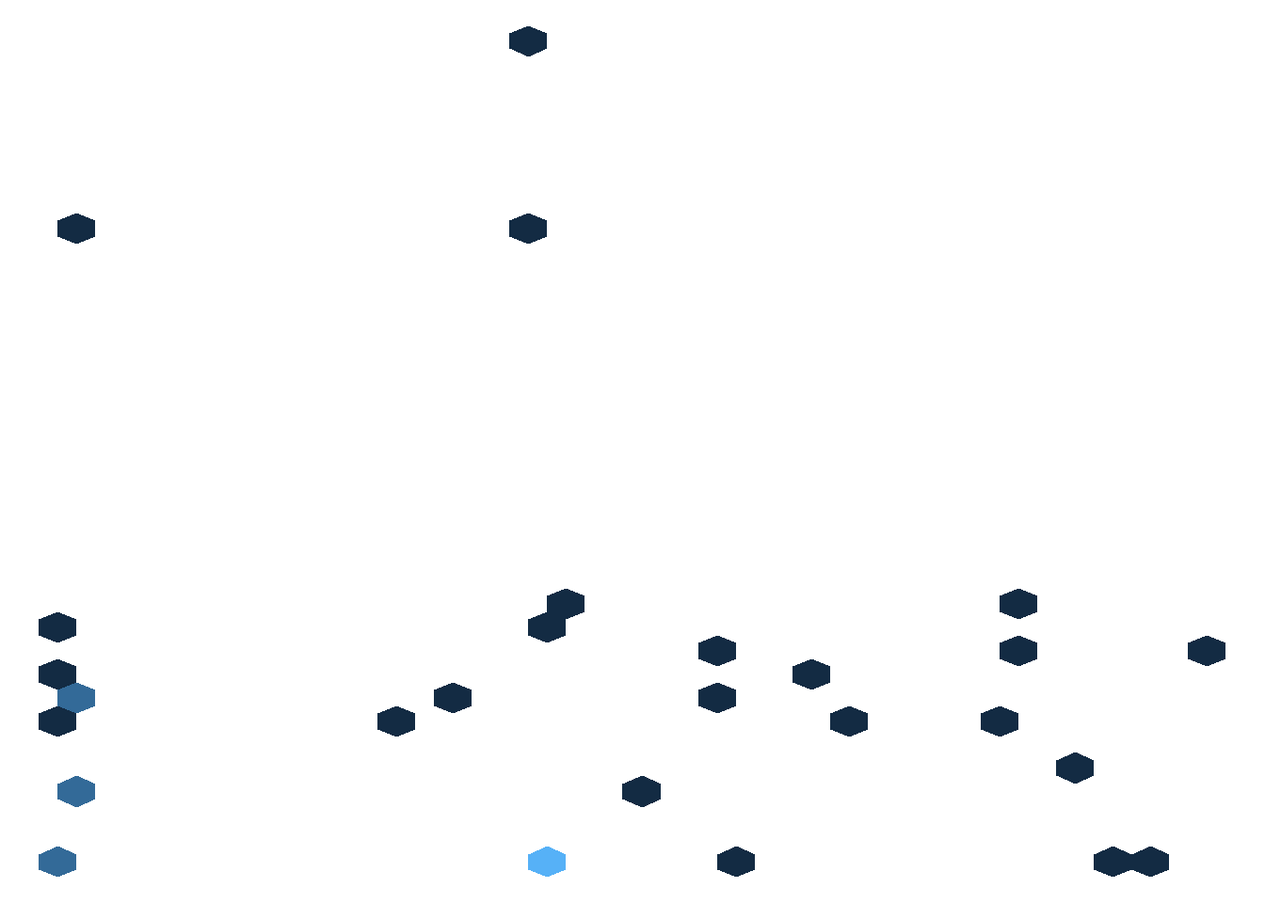
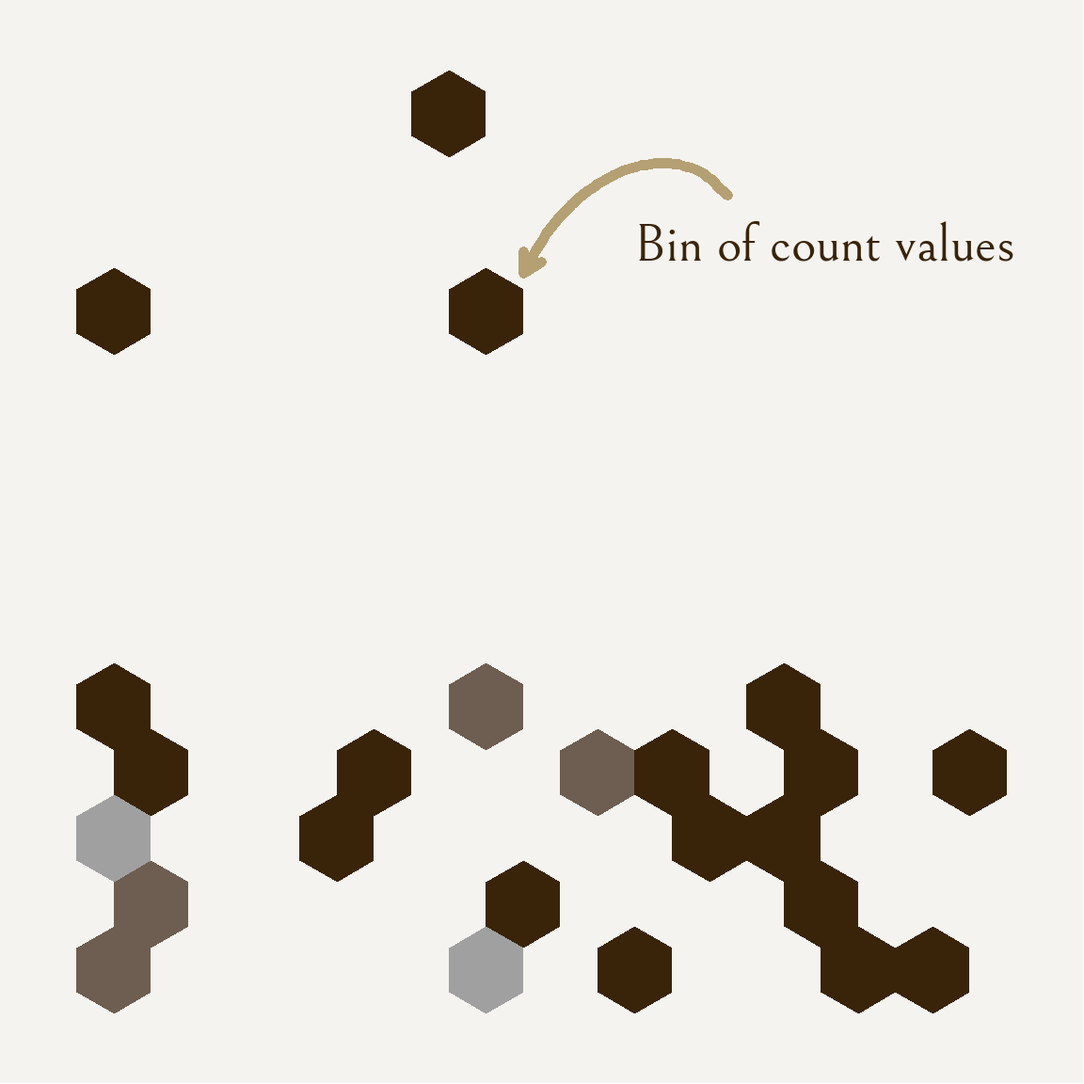
updating visual aesthetics of all three visualizations

diff --git a/code/advanced_visualization_code.html b/code/advanced_visualization_code.html
@@ -120,45 +120,68 @@ pre > code.sourceCode > span > a:first-child::before { text-decoration: underlin
 <span id="cb1-2"><a href="#cb1-2" aria-hidden="true" tabindex="-1"></a><span class="fu">library</span>(here) <span class="co"># file organization</span></span>
 <span id="cb1-3"><a href="#cb1-3" aria-hidden="true" tabindex="-1"></a><span class="fu">library</span>(janitor) <span class="co"># cleaning data frames</span></span>
 <span id="cb1-4"><a href="#cb1-4" aria-hidden="true" tabindex="-1"></a><span class="fu">library</span>(readxl) <span class="co"># reading excel files</span></span>
-<span id="cb1-5"><a href="#cb1-5" aria-hidden="true" tabindex="-1"></a><span class="fu">library</span>(hexbin)</span>
-<span id="cb1-6"><a href="#cb1-6" aria-hidden="true" tabindex="-1"></a><span class="fu">library</span>(ggpattern)</span>
-<span id="cb1-7"><a href="#cb1-7" aria-hidden="true" tabindex="-1"></a><span class="fu">library</span>(ggthemes)</span>
-<span id="cb1-8"><a href="#cb1-8" aria-hidden="true" tabindex="-1"></a><span class="fu">library</span>(magick)</span>
-<span id="cb1-9"><a href="#cb1-9" aria-hidden="true" tabindex="-1"></a><span class="fu">library</span>(patchwork)</span>
-<span id="cb1-10"><a href="#cb1-10" aria-hidden="true" tabindex="-1"></a><span class="fu">library</span>(showtext)</span>
-<span id="cb1-11"><a href="#cb1-11" aria-hidden="true" tabindex="-1"></a><span class="fu">library</span>(sysfonts)</span>
-<span id="cb1-12"><a href="#cb1-12" aria-hidden="true" tabindex="-1"></a><span class="fu">library</span>(GGally)</span>
-<span id="cb1-13"><a href="#cb1-13" aria-hidden="true" tabindex="-1"></a><span class="fu">font_add_google</span>(<span class="at">name =</span> <span class="st">"Bellefair"</span>, <span class="co"># Name of the font on the Google Fonts site</span></span>
-<span id="cb1-14"><a href="#cb1-14" aria-hidden="true" tabindex="-1"></a>                <span class="at">family =</span> <span class="st">"belle"</span>) <span class="co"># Name to call the font</span></span>
-<span id="cb1-15"><a href="#cb1-15" aria-hidden="true" tabindex="-1"></a><span class="fu">showtext_auto</span>() <span class="co"># automatically use showtext to render text</span></span>
-<span id="cb1-16"><a href="#cb1-16" aria-hidden="true" tabindex="-1"></a></span>
-<span id="cb1-17"><a href="#cb1-17" aria-hidden="true" tabindex="-1"></a>personal_data <span class="ot">&lt;-</span> <span class="fu">read_csv</span>(<span class="fu">here</span>(<span class="st">"data"</span>,</span>
-<span id="cb1-18"><a href="#cb1-18" aria-hidden="true" tabindex="-1"></a>                               <span class="st">"personal_data_03072026.csv"</span>))</span>
-<span id="cb1-19"><a href="#cb1-19" aria-hidden="true" tabindex="-1"></a></span>
-<span id="cb1-20"><a href="#cb1-20" aria-hidden="true" tabindex="-1"></a>personal_data_clean <span class="ot">&lt;-</span> personal_data <span class="sc">|&gt;</span> <span class="co"># save personal data as object</span></span>
-<span id="cb1-21"><a href="#cb1-21" aria-hidden="true" tabindex="-1"></a>  <span class="fu">clean_names</span>() <span class="sc">|&gt;</span> <span class="co"># clean column names</span></span>
-<span id="cb1-22"><a href="#cb1-22" aria-hidden="true" tabindex="-1"></a>  <span class="fu">mutate</span>(<span class="at">date_mutate =</span> <span class="fu">as.Date.character</span>(date, <span class="at">format =</span> <span class="st">"%m/%d/%Y"</span>), <span class="co"># mutate date column into </span></span>
-<span id="cb1-23"><a href="#cb1-23" aria-hidden="true" tabindex="-1"></a>         <span class="at">game_min =</span> time_with_mobile_game_active_min,</span>
-<span id="cb1-24"><a href="#cb1-24" aria-hidden="true" tabindex="-1"></a>         <span class="at">class_hrs =</span> time_in_class_lecture_hrs,</span>
-<span id="cb1-25"><a href="#cb1-25" aria-hidden="true" tabindex="-1"></a>         <span class="at">study_hrs =</span> time_spent_in_study_spaces_hrs,</span>
-<span id="cb1-26"><a href="#cb1-26" aria-hidden="true" tabindex="-1"></a>         <span class="at">friends_hrs =</span> time_spent_at_friends_hrs,</span>
-<span id="cb1-27"><a href="#cb1-27" aria-hidden="true" tabindex="-1"></a>         <span class="at">assignments =</span> number_of_assignments_due) <span class="sc">|&gt;</span></span>
-<span id="cb1-28"><a href="#cb1-28" aria-hidden="true" tabindex="-1"></a>  <span class="fu">select</span>(date_mutate, game_min, class, class_hrs, study_hrs, friends_hrs, assignments)</span></code></pre></div><button title="Copy to Clipboard" class="code-copy-button"><i class="bi"></i></button></div>
+<span id="cb1-5"><a href="#cb1-5" aria-hidden="true" tabindex="-1"></a><span class="fu">library</span>(ggpattern) <span class="co"># geom pattern customization</span></span>
+<span id="cb1-6"><a href="#cb1-6" aria-hidden="true" tabindex="-1"></a><span class="fu">library</span>(ggthemes) <span class="co"># extra plot themes</span></span>
+<span id="cb1-7"><a href="#cb1-7" aria-hidden="true" tabindex="-1"></a><span class="fu">library</span>(showtext) <span class="co"># to show custom text on plot</span></span>
+<span id="cb1-8"><a href="#cb1-8" aria-hidden="true" tabindex="-1"></a><span class="fu">library</span>(sysfonts) <span class="co"># to read in custom google font</span></span>
+<span id="cb1-9"><a href="#cb1-9" aria-hidden="true" tabindex="-1"></a><span class="fu">library</span>(GGally) <span class="co"># for more complex plots (correlation heatmap)</span></span>
+<span id="cb1-10"><a href="#cb1-10" aria-hidden="true" tabindex="-1"></a><span class="fu">library</span>(labelled) <span class="co"># for customizaing variable labels</span></span>
+<span id="cb1-11"><a href="#cb1-11" aria-hidden="true" tabindex="-1"></a><span class="fu">font_add_google</span>(<span class="at">name =</span> <span class="st">"Bellefair"</span>, <span class="co"># Name of the font on the Google Fonts site</span></span>
+<span id="cb1-12"><a href="#cb1-12" aria-hidden="true" tabindex="-1"></a>                <span class="at">family =</span> <span class="st">"belle"</span>) <span class="co"># Name to call the font</span></span>
+<span id="cb1-13"><a href="#cb1-13" aria-hidden="true" tabindex="-1"></a><span class="fu">showtext_auto</span>() <span class="co"># automatically use showtext to render text</span></span>
+<span id="cb1-14"><a href="#cb1-14" aria-hidden="true" tabindex="-1"></a></span>
+<span id="cb1-15"><a href="#cb1-15" aria-hidden="true" tabindex="-1"></a>personal_data <span class="ot">&lt;-</span> <span class="fu">read_csv</span>(<span class="fu">here</span>(<span class="st">"data"</span>,</span>
+<span id="cb1-16"><a href="#cb1-16" aria-hidden="true" tabindex="-1"></a>                               <span class="st">"personal_data_03072026.csv"</span>)) <span class="co"># save personal data as object</span></span>
+<span id="cb1-17"><a href="#cb1-17" aria-hidden="true" tabindex="-1"></a>personal_data_clean <span class="ot">&lt;-</span> personal_data <span class="sc">|&gt;</span> <span class="co"># create clean data frame of personal data</span></span>
+<span id="cb1-18"><a href="#cb1-18" aria-hidden="true" tabindex="-1"></a>  <span class="fu">clean_names</span>() <span class="sc">|&gt;</span> <span class="co"># clean column names to lowercase and underscores</span></span>
+<span id="cb1-19"><a href="#cb1-19" aria-hidden="true" tabindex="-1"></a>  <span class="fu">mutate</span>(<span class="at">Date =</span> <span class="fu">as.Date.character</span>(date, <span class="at">format =</span> <span class="st">"%m/%d/%Y"</span>), <span class="co"># mutate date column into readable dates </span></span>
+<span id="cb1-20"><a href="#cb1-20" aria-hidden="true" tabindex="-1"></a>         <span class="at">Game =</span> time_with_mobile_game_active_min, <span class="co"># creating columns with updated names, new name = old name</span></span>
+<span id="cb1-21"><a href="#cb1-21" aria-hidden="true" tabindex="-1"></a>         <span class="at">Class =</span> time_in_class_lecture_hrs, <span class="co">#  new name = old name</span></span>
+<span id="cb1-22"><a href="#cb1-22" aria-hidden="true" tabindex="-1"></a>         <span class="at">Study =</span> time_spent_in_study_spaces_hrs, <span class="co">#  new name = old name</span></span>
+<span id="cb1-23"><a href="#cb1-23" aria-hidden="true" tabindex="-1"></a>         <span class="at">Friends =</span> time_spent_at_friends_hrs, <span class="co">#  new name = old name</span></span>
+<span id="cb1-24"><a href="#cb1-24" aria-hidden="true" tabindex="-1"></a>         <span class="at">Assignments =</span> number_of_assignments_due) <span class="sc">|&gt;</span> <span class="co">#  new name = old name</span></span>
+<span id="cb1-25"><a href="#cb1-25" aria-hidden="true" tabindex="-1"></a>  <span class="fu">select</span>(Date, Game, class, Class, Study, Friends, Assignments) <span class="co"># select columns of interest</span></span></code></pre></div><button title="Copy to Clipboard" class="code-copy-button"><i class="bi"></i></button></div>
 </div>
 </section>
 <section id="visualization-1." class="level1">
 <h1>Visualization 1.</h1>
 <div class="cell">
-<div class="code-copy-outer-scaffold"><div class="sourceCode cell-code" id="cb2"><pre class="sourceCode r code-with-copy"><code class="sourceCode r"><span id="cb2-1"><a href="#cb2-1" aria-hidden="true" tabindex="-1"></a><span class="fu">ggplot</span>(<span class="at">data =</span> personal_data_clean,</span>
-<span id="cb2-2"><a href="#cb2-2" aria-hidden="true" tabindex="-1"></a>       <span class="fu">aes</span>(<span class="at">x =</span> class_hrs,</span>
-<span id="cb2-3"><a href="#cb2-3" aria-hidden="true" tabindex="-1"></a>           <span class="at">y =</span> game_min)) <span class="sc">+</span></span>
-<span id="cb2-4"><a href="#cb2-4" aria-hidden="true" tabindex="-1"></a>  <span class="fu">geom_hex</span>() <span class="sc">+</span></span>
-<span id="cb2-5"><a href="#cb2-5" aria-hidden="true" tabindex="-1"></a>  <span class="fu">theme_void</span>() <span class="sc">+</span></span>
-<span id="cb2-6"><a href="#cb2-6" aria-hidden="true" tabindex="-1"></a>  <span class="fu">theme</span>(<span class="at">legend.position =</span> <span class="st">"none"</span>)</span></code></pre></div><button title="Copy to Clipboard" class="code-copy-button"><i class="bi"></i></button></div>
+<div class="code-copy-outer-scaffold"><div class="sourceCode cell-code" id="cb2"><pre class="sourceCode r code-with-copy"><code class="sourceCode r"><span id="cb2-1"><a href="#cb2-1" aria-hidden="true" tabindex="-1"></a><span class="fu">ggplot</span>(<span class="at">data =</span> personal_data_clean, <span class="co"># create base ggplot layer with clean df</span></span>
+<span id="cb2-2"><a href="#cb2-2" aria-hidden="true" tabindex="-1"></a>       <span class="fu">aes</span>(<span class="at">x =</span> Class, <span class="co"># set x-axis</span></span>
+<span id="cb2-3"><a href="#cb2-3" aria-hidden="true" tabindex="-1"></a>           <span class="at">y =</span> Game)) <span class="sc">+</span> <span class="co"># set y-axis</span></span>
+<span id="cb2-4"><a href="#cb2-4" aria-hidden="true" tabindex="-1"></a>  <span class="fu">geom_hex</span>(<span class="at">bins =</span> <span class="dv">11</span>) <span class="sc">+</span> <span class="co"># customize bin number  (to smallest # that won't cut off geom shape near border)</span></span>
+<span id="cb2-5"><a href="#cb2-5" aria-hidden="true" tabindex="-1"></a>  <span class="fu">scale_fill_continuous</span>(<span class="at">type =</span> <span class="st">"gradient"</span>, <span class="co"># customize color of hexbins</span></span>
+<span id="cb2-6"><a href="#cb2-6" aria-hidden="true" tabindex="-1"></a>                        <span class="at">low =</span> <span class="st">"#39240A"</span>, <span class="co"># set low count occurence color</span></span>
+<span id="cb2-7"><a href="#cb2-7" aria-hidden="true" tabindex="-1"></a>                        <span class="at">high =</span> <span class="st">"#A0A0A0"</span>) <span class="sc">+</span> <span class="co"># set higher count occurence color</span></span>
+<span id="cb2-8"><a href="#cb2-8" aria-hidden="true" tabindex="-1"></a>  <span class="fu">theme_void</span>() <span class="sc">+</span> <span class="co"># set theme to remove axis and labels</span></span>
+<span id="cb2-9"><a href="#cb2-9" aria-hidden="true" tabindex="-1"></a>  <span class="fu">theme</span>(<span class="at">legend.position =</span> <span class="st">"none"</span>) <span class="sc">+</span> <span class="co"># remove legend</span></span>
+<span id="cb2-10"><a href="#cb2-10" aria-hidden="true" tabindex="-1"></a>  <span class="fu">theme</span>(<span class="at">plot.margin =</span> <span class="fu">margin</span>(<span class="at">t =</span> <span class="dv">1</span>, <span class="co"># create 1 cm margin around all sides</span></span>
+<span id="cb2-11"><a href="#cb2-11" aria-hidden="true" tabindex="-1"></a>                             <span class="at">r =</span> <span class="dv">1</span>,</span>
+<span id="cb2-12"><a href="#cb2-12" aria-hidden="true" tabindex="-1"></a>                             <span class="at">l =</span> <span class="dv">1</span>,</span>
+<span id="cb2-13"><a href="#cb2-13" aria-hidden="true" tabindex="-1"></a>                             <span class="at">b =</span> <span class="dv">1</span>,</span>
+<span id="cb2-14"><a href="#cb2-14" aria-hidden="true" tabindex="-1"></a>                             <span class="at">unit =</span> <span class="st">"cm"</span>),</span>
+<span id="cb2-15"><a href="#cb2-15" aria-hidden="true" tabindex="-1"></a>         <span class="at">plot.background =</span> <span class="fu">element_rect</span>(<span class="at">fill =</span> <span class="st">"#F5F3EF"</span>)) <span class="sc">+</span> <span class="co"># set background color</span></span>
+<span id="cb2-16"><a href="#cb2-16" aria-hidden="true" tabindex="-1"></a>  <span class="fu">geom_curve</span>(<span class="at">x =</span> <span class="fl">2.25</span>,</span>
+<span id="cb2-17"><a href="#cb2-17" aria-hidden="true" tabindex="-1"></a>             <span class="at">y =</span> <span class="dv">50</span>,</span>
+<span id="cb2-18"><a href="#cb2-18" aria-hidden="true" tabindex="-1"></a>             <span class="at">xend =</span> <span class="fl">1.5</span>,</span>
+<span id="cb2-19"><a href="#cb2-19" aria-hidden="true" tabindex="-1"></a>             <span class="at">yend =</span> <span class="dv">45</span>,</span>
+<span id="cb2-20"><a href="#cb2-20" aria-hidden="true" tabindex="-1"></a>             <span class="at">curvature =</span> <span class="fl">0.6</span>,</span>
+<span id="cb2-21"><a href="#cb2-21" aria-hidden="true" tabindex="-1"></a>             <span class="at">angle =</span> <span class="dv">70</span>,</span>
+<span id="cb2-22"><a href="#cb2-22" aria-hidden="true" tabindex="-1"></a>             <span class="at">linewidth =</span> <span class="dv">2</span>,</span>
+<span id="cb2-23"><a href="#cb2-23" aria-hidden="true" tabindex="-1"></a>             <span class="at">arrow =</span> <span class="fu">arrow</span>(<span class="at">length =</span> <span class="fu">unit</span>(<span class="fl">0.3</span>, <span class="st">"cm"</span>)),</span>
+<span id="cb2-24"><a href="#cb2-24" aria-hidden="true" tabindex="-1"></a>             <span class="at">lineend =</span> <span class="st">"round"</span>,</span>
+<span id="cb2-25"><a href="#cb2-25" aria-hidden="true" tabindex="-1"></a>             <span class="at">col =</span> <span class="st">"#B4A073"</span>) <span class="sc">+</span></span>
+<span id="cb2-26"><a href="#cb2-26" aria-hidden="true" tabindex="-1"></a>  <span class="fu">annotate</span>(<span class="st">"text"</span>,</span>
+<span id="cb2-27"><a href="#cb2-27" aria-hidden="true" tabindex="-1"></a>           <span class="at">x =</span> <span class="fl">2.6</span>,</span>
+<span id="cb2-28"><a href="#cb2-28" aria-hidden="true" tabindex="-1"></a>           <span class="at">y =</span> <span class="dv">47</span>,</span>
+<span id="cb2-29"><a href="#cb2-29" aria-hidden="true" tabindex="-1"></a>           <span class="at">label =</span> <span class="st">"Bin of count values"</span>,</span>
+<span id="cb2-30"><a href="#cb2-30" aria-hidden="true" tabindex="-1"></a>           <span class="at">color =</span> <span class="st">"#39240A"</span>,</span>
+<span id="cb2-31"><a href="#cb2-31" aria-hidden="true" tabindex="-1"></a>           <span class="at">size =</span> <span class="dv">15</span>,</span>
+<span id="cb2-32"><a href="#cb2-32" aria-hidden="true" tabindex="-1"></a>           <span class="at">family =</span> <span class="st">"belle"</span>)</span></code></pre></div><button title="Copy to Clipboard" class="code-copy-button"><i class="bi"></i></button></div>
 <div class="cell-output-display">
 <div>
 <figure class="figure">
-<p><img src="advanced_visualization_code_files/figure-html/hexplot%20class+game-1.png" class="img-fluid figure-img" width="672"></p>
+<p><img src="advanced_visualization_code_files/figure-html/hexplot%20class+game-1.png" class="img-fluid figure-img" width="576"></p>
 </figure>
 </div>
 </div>
@@ -167,15 +190,19 @@ pre > code.sourceCode > span > a:first-child::before { text-decoration: underlin
 <section id="visualization-2." class="level1">
 <h1>Visualization 2.</h1>
 <div class="cell">
-<div class="code-copy-outer-scaffold"><div class="sourceCode cell-code" id="cb3"><pre class="sourceCode r code-with-copy"><code class="sourceCode r"><span id="cb3-1"><a href="#cb3-1" aria-hidden="true" tabindex="-1"></a><span class="fu">ggcorr</span>(<span class="at">data =</span> personal_data_clean,</span>
-<span id="cb3-2"><a href="#cb3-2" aria-hidden="true" tabindex="-1"></a>       <span class="at">method =</span> <span class="fu">c</span>(<span class="st">"pairwise"</span>, <span class="st">"spearman"</span>),</span>
-<span id="cb3-3"><a href="#cb3-3" aria-hidden="true" tabindex="-1"></a>       <span class="at">low =</span> <span class="st">"#8500E9"</span>,</span>
-<span id="cb3-4"><a href="#cb3-4" aria-hidden="true" tabindex="-1"></a>       <span class="at">high =</span> <span class="st">"#56E900"</span>,</span>
-<span id="cb3-5"><a href="#cb3-5" aria-hidden="true" tabindex="-1"></a>       <span class="at">legend.position =</span> <span class="st">"left"</span>)</span></code></pre></div><button title="Copy to Clipboard" class="code-copy-button"><i class="bi"></i></button></div>
+<div class="code-copy-outer-scaffold"><div class="sourceCode cell-code" id="cb3"><pre class="sourceCode r code-with-copy"><code class="sourceCode r"><span id="cb3-1"><a href="#cb3-1" aria-hidden="true" tabindex="-1"></a><span class="fu">ggcorr</span>(<span class="at">data =</span> personal_data_clean, <span class="co"># create correlation heatmap with clean df</span></span>
+<span id="cb3-2"><a href="#cb3-2" aria-hidden="true" tabindex="-1"></a>       <span class="at">method =</span> <span class="fu">c</span>(<span class="st">"pairwise"</span>, <span class="st">"spearman"</span>), <span class="co"># choose method of correlation on data</span></span>
+<span id="cb3-3"><a href="#cb3-3" aria-hidden="true" tabindex="-1"></a>       <span class="at">low =</span> <span class="st">"#8500E9"</span>, <span class="co"># set negative correlation color</span></span>
+<span id="cb3-4"><a href="#cb3-4" aria-hidden="true" tabindex="-1"></a>       <span class="at">mid =</span> <span class="st">"#C0CDFF"</span>, <span class="co"># set close to 0 correlation color</span></span>
+<span id="cb3-5"><a href="#cb3-5" aria-hidden="true" tabindex="-1"></a>       <span class="at">high =</span> <span class="st">"#56E900"</span>) <span class="sc">+</span> <span class="co"># set positive correlation color</span></span>
+<span id="cb3-6"><a href="#cb3-6" aria-hidden="true" tabindex="-1"></a>   <span class="fu">theme_minimal</span>(<span class="at">base_family =</span> <span class="st">"belle"</span>) <span class="sc">+</span> <span class="co"># set theme to minimal and base text font</span></span>
+<span id="cb3-7"><a href="#cb3-7" aria-hidden="true" tabindex="-1"></a>  <span class="fu">theme</span>(<span class="at">text =</span> <span class="fu">element_text</span>(<span class="at">size =</span> <span class="dv">30</span>), <span class="co"># set font size</span></span>
+<span id="cb3-8"><a href="#cb3-8" aria-hidden="true" tabindex="-1"></a>        <span class="at">plot.background =</span> <span class="fu">element_rect</span>(<span class="at">fill =</span> <span class="st">"#F5F3EF"</span>), <span class="co"># set background color</span></span>
+<span id="cb3-9"><a href="#cb3-9" aria-hidden="true" tabindex="-1"></a>        <span class="at">legend.position =</span> <span class="st">"top"</span>) <span class="co"># put legend at top</span></span></code></pre></div><button title="Copy to Clipboard" class="code-copy-button"><i class="bi"></i></button></div>
 <div class="cell-output-display">
 <div>
 <figure class="figure">
-<p><img src="advanced_visualization_code_files/figure-html/correlation%20matrix-1.png" class="img-fluid figure-img" width="672"></p>
+<p><img src="advanced_visualization_code_files/figure-html/correlation%20matrix-1.png" class="img-fluid figure-img" width="480"></p>
 </figure>
 </div>
 </div>
@@ -184,39 +211,38 @@ pre > code.sourceCode > span > a:first-child::before { text-decoration: underlin
 <section id="visualization-3." class="level1">
 <h1>Visualization 3.</h1>
 <div class="cell">
-<div class="code-copy-outer-scaffold"><div class="sourceCode cell-code" id="cb4"><pre class="sourceCode r code-with-copy"><code class="sourceCode r"><span id="cb4-1"><a href="#cb4-1" aria-hidden="true" tabindex="-1"></a>coeff <span class="ot">&lt;-</span> <span class="dv">18</span></span>
+<div class="code-copy-outer-scaffold"><div class="sourceCode cell-code" id="cb4"><pre class="sourceCode r code-with-copy"><code class="sourceCode r"><span id="cb4-1"><a href="#cb4-1" aria-hidden="true" tabindex="-1"></a>coeff <span class="ot">&lt;-</span> <span class="dv">18</span> <span class="co"># define coefficient for later use</span></span>
 <span id="cb4-2"><a href="#cb4-2" aria-hidden="true" tabindex="-1"></a></span>
-<span id="cb4-3"><a href="#cb4-3" aria-hidden="true" tabindex="-1"></a><span class="fu">ggplot</span>(<span class="at">data =</span> personal_data_clean,</span>
-<span id="cb4-4"><a href="#cb4-4" aria-hidden="true" tabindex="-1"></a>       <span class="fu">aes</span>(<span class="at">x =</span> date_mutate)) <span class="sc">+</span> </span>
-<span id="cb4-5"><a href="#cb4-5" aria-hidden="true" tabindex="-1"></a>  <span class="fu">geom_line</span>(<span class="fu">aes</span>(<span class="at">y =</span> class_hrs),</span>
-<span id="cb4-6"><a href="#cb4-6" aria-hidden="true" tabindex="-1"></a>            <span class="at">color =</span> <span class="st">"#A0A0A0"</span>,</span>
-<span id="cb4-7"><a href="#cb4-7" aria-hidden="true" tabindex="-1"></a>            <span class="at">linewidth =</span> <span class="dv">1</span>) <span class="sc">+</span></span>
-<span id="cb4-8"><a href="#cb4-8" aria-hidden="true" tabindex="-1"></a>  <span class="fu">geom_line</span>(<span class="fu">aes</span>(<span class="at">y =</span> game_min<span class="sc">/</span>coeff),</span>
-<span id="cb4-9"><a href="#cb4-9" aria-hidden="true" tabindex="-1"></a>            <span class="at">color =</span> <span class="st">"#0F0F0F"</span>,</span>
-<span id="cb4-10"><a href="#cb4-10" aria-hidden="true" tabindex="-1"></a>            <span class="at">linewidth =</span> <span class="dv">1</span>) <span class="sc">+</span></span>
-<span id="cb4-11"><a href="#cb4-11" aria-hidden="true" tabindex="-1"></a>  <span class="fu">scale_y_continuous</span>(<span class="at">name =</span> <span class="st">"Time in lecture (hrs)"</span>,</span>
-<span id="cb4-12"><a href="#cb4-12" aria-hidden="true" tabindex="-1"></a>                     <span class="at">sec.axis =</span> <span class="fu">sec_axis</span>(<span class="sc">~</span> . <span class="sc">*</span> coeff, </span>
+<span id="cb4-3"><a href="#cb4-3" aria-hidden="true" tabindex="-1"></a><span class="fu">ggplot</span>(<span class="at">data =</span> personal_data_clean, <span class="co"># create base ggplot layer with clean df</span></span>
+<span id="cb4-4"><a href="#cb4-4" aria-hidden="true" tabindex="-1"></a>       <span class="fu">aes</span>(<span class="at">x =</span> Date)) <span class="sc">+</span> <span class="co"># set x-axis as date to create time series</span></span>
+<span id="cb4-5"><a href="#cb4-5" aria-hidden="true" tabindex="-1"></a>  <span class="fu">geom_line</span>(<span class="fu">aes</span>(<span class="at">y =</span> Class), <span class="co"># create line for time in class</span></span>
+<span id="cb4-6"><a href="#cb4-6" aria-hidden="true" tabindex="-1"></a>            <span class="at">color =</span> <span class="st">"#A0A0A0"</span>, <span class="co"># set color</span></span>
+<span id="cb4-7"><a href="#cb4-7" aria-hidden="true" tabindex="-1"></a>            <span class="at">linewidth =</span> <span class="dv">1</span>) <span class="sc">+</span> <span class="co"># set width</span></span>
+<span id="cb4-8"><a href="#cb4-8" aria-hidden="true" tabindex="-1"></a>  <span class="fu">geom_line</span>(<span class="fu">aes</span>(<span class="at">y =</span> Game<span class="sc">/</span>coeff), <span class="co"># create line for time spent on game and divide values to scale it to existing y-axis values of hours</span></span>
+<span id="cb4-9"><a href="#cb4-9" aria-hidden="true" tabindex="-1"></a>            <span class="at">color =</span> <span class="st">"#0F0F0F"</span>, <span class="co"># set color</span></span>
+<span id="cb4-10"><a href="#cb4-10" aria-hidden="true" tabindex="-1"></a>            <span class="at">linewidth =</span> <span class="dv">1</span>) <span class="sc">+</span> <span class="co"># set width</span></span>
+<span id="cb4-11"><a href="#cb4-11" aria-hidden="true" tabindex="-1"></a>  <span class="fu">scale_y_continuous</span>(<span class="at">name =</span> <span class="st">"Time in lecture (hrs)"</span>, <span class="co"># scale first y-axis to hours and name it and name it accordingly</span></span>
+<span id="cb4-12"><a href="#cb4-12" aria-hidden="true" tabindex="-1"></a>                     <span class="at">sec.axis =</span> <span class="fu">sec_axis</span>(<span class="sc">~</span> . <span class="sc">*</span> coeff, <span class="co"># scale second y-axis to minutes and name it accordingly</span></span>
 <span id="cb4-13"><a href="#cb4-13" aria-hidden="true" tabindex="-1"></a>                                         <span class="at">name =</span> <span class="st">"Time tracked on game (min)"</span>)) <span class="sc">+</span></span>
-<span id="cb4-14"><a href="#cb4-14" aria-hidden="true" tabindex="-1"></a>  <span class="fu">labs</span>(<span class="at">x =</span> <span class="st">"Date"</span>) <span class="sc">+</span></span>
-<span id="cb4-15"><a href="#cb4-15" aria-hidden="true" tabindex="-1"></a>  <span class="fu">theme_classic</span>() <span class="sc">+</span></span>
-<span id="cb4-16"><a href="#cb4-16" aria-hidden="true" tabindex="-1"></a>   <span class="fu">theme</span>(<span class="at">text =</span> <span class="fu">element_text</span>(<span class="at">family =</span> <span class="st">"belle"</span>),</span>
-<span id="cb4-17"><a href="#cb4-17" aria-hidden="true" tabindex="-1"></a>         <span class="at">plot.background =</span> <span class="fu">element_rect</span>(<span class="at">fill =</span> <span class="st">"#F5F3EF"</span>),</span>
-<span id="cb4-18"><a href="#cb4-18" aria-hidden="true" tabindex="-1"></a>         <span class="at">panel.background =</span> <span class="fu">element_rect</span>(<span class="at">fill =</span> <span class="st">"#F5F3EF"</span>),</span>
-<span id="cb4-19"><a href="#cb4-19" aria-hidden="true" tabindex="-1"></a>         <span class="at">panel.border =</span> <span class="fu">element_rect</span>(<span class="at">fill =</span> <span class="cn">NA</span>, </span>
-<span id="cb4-20"><a href="#cb4-20" aria-hidden="true" tabindex="-1"></a>                                     <span class="at">color =</span> <span class="st">"#B4A073"</span>, </span>
-<span id="cb4-21"><a href="#cb4-21" aria-hidden="true" tabindex="-1"></a>                                     <span class="at">linewidth =</span> <span class="dv">5</span>),</span>
-<span id="cb4-22"><a href="#cb4-22" aria-hidden="true" tabindex="-1"></a>         <span class="at">axis.title.x =</span> <span class="fu">element_text</span>(<span class="at">size =</span> <span class="dv">40</span>,</span>
-<span id="cb4-23"><a href="#cb4-23" aria-hidden="true" tabindex="-1"></a>                                   <span class="at">color =</span> <span class="st">"#39240A"</span>),</span>
-<span id="cb4-24"><a href="#cb4-24" aria-hidden="true" tabindex="-1"></a>       <span class="at">axis.title.y.left =</span> <span class="fu">element_text</span>(<span class="at">size =</span> <span class="dv">35</span>,</span>
-<span id="cb4-25"><a href="#cb4-25" aria-hidden="true" tabindex="-1"></a>                                   <span class="at">color =</span> <span class="st">"#A0A0A0"</span>),</span>
-<span id="cb4-26"><a href="#cb4-26" aria-hidden="true" tabindex="-1"></a>       <span class="at">axis.title.y.right =</span> <span class="fu">element_text</span>(<span class="at">size =</span> <span class="dv">35</span>,</span>
-<span id="cb4-27"><a href="#cb4-27" aria-hidden="true" tabindex="-1"></a>                                   <span class="at">color =</span> <span class="st">"#0F0F0F"</span>),</span>
-<span id="cb4-28"><a href="#cb4-28" aria-hidden="true" tabindex="-1"></a>       <span class="at">axis.text.x =</span> <span class="fu">element_text</span>(<span class="at">size =</span> <span class="dv">30</span>,</span>
-<span id="cb4-29"><a href="#cb4-29" aria-hidden="true" tabindex="-1"></a>                                   <span class="at">color =</span> <span class="st">"#39240A"</span>),</span>
-<span id="cb4-30"><a href="#cb4-30" aria-hidden="true" tabindex="-1"></a>       <span class="at">axis.text.y =</span> <span class="fu">element_text</span>(<span class="at">size =</span> <span class="dv">35</span>,</span>
-<span id="cb4-31"><a href="#cb4-31" aria-hidden="true" tabindex="-1"></a>                                   <span class="at">color =</span> <span class="st">"#39240A"</span>),</span>
-<span id="cb4-32"><a href="#cb4-32" aria-hidden="true" tabindex="-1"></a>       <span class="at">axis.line =</span> <span class="fu">element_blank</span>()</span>
-<span id="cb4-33"><a href="#cb4-33" aria-hidden="true" tabindex="-1"></a>       )</span></code></pre></div><button title="Copy to Clipboard" class="code-copy-button"><i class="bi"></i></button></div>
+<span id="cb4-14"><a href="#cb4-14" aria-hidden="true" tabindex="-1"></a>  <span class="fu">theme_classic</span>() <span class="sc">+</span> <span class="co"># set theme to classic</span></span>
+<span id="cb4-15"><a href="#cb4-15" aria-hidden="true" tabindex="-1"></a>   <span class="fu">theme</span>(<span class="at">text =</span> <span class="fu">element_text</span>(<span class="at">family =</span> <span class="st">"belle"</span>), <span class="co"># set base font</span></span>
+<span id="cb4-16"><a href="#cb4-16" aria-hidden="true" tabindex="-1"></a>         <span class="at">plot.background =</span> <span class="fu">element_rect</span>(<span class="at">fill =</span> <span class="st">"#F5F3EF"</span>), <span class="co"># set entire background color</span></span>
+<span id="cb4-17"><a href="#cb4-17" aria-hidden="true" tabindex="-1"></a>         <span class="at">panel.background =</span> <span class="fu">element_rect</span>(<span class="at">fill =</span> <span class="st">"#F5F3EF"</span>), <span class="co"># set plot background color</span></span>
+<span id="cb4-18"><a href="#cb4-18" aria-hidden="true" tabindex="-1"></a>         <span class="at">panel.border =</span> <span class="fu">element_rect</span>(<span class="at">fill =</span> <span class="cn">NA</span>, <span class="co"># create border, set color and width</span></span>
+<span id="cb4-19"><a href="#cb4-19" aria-hidden="true" tabindex="-1"></a>                                     <span class="at">color =</span> <span class="st">"#B4A073"</span>, </span>
+<span id="cb4-20"><a href="#cb4-20" aria-hidden="true" tabindex="-1"></a>                                     <span class="at">linewidth =</span> <span class="dv">5</span>),</span>
+<span id="cb4-21"><a href="#cb4-21" aria-hidden="true" tabindex="-1"></a>         <span class="at">axis.title.x =</span> <span class="fu">element_text</span>(<span class="at">size =</span> <span class="dv">40</span>, <span class="co"># set size and color of bottom axis</span></span>
+<span id="cb4-22"><a href="#cb4-22" aria-hidden="true" tabindex="-1"></a>                                   <span class="at">color =</span> <span class="st">"#39240A"</span>),</span>
+<span id="cb4-23"><a href="#cb4-23" aria-hidden="true" tabindex="-1"></a>       <span class="at">axis.title.y.left =</span> <span class="fu">element_text</span>(<span class="at">size =</span> <span class="dv">35</span>, <span class="co"># set size and color of left axis</span></span>
+<span id="cb4-24"><a href="#cb4-24" aria-hidden="true" tabindex="-1"></a>                                   <span class="at">color =</span> <span class="st">"#A0A0A0"</span>),</span>
+<span id="cb4-25"><a href="#cb4-25" aria-hidden="true" tabindex="-1"></a>       <span class="at">axis.title.y.right =</span> <span class="fu">element_text</span>(<span class="at">size =</span> <span class="dv">35</span>, <span class="co"># set size and color of right axis</span></span>
+<span id="cb4-26"><a href="#cb4-26" aria-hidden="true" tabindex="-1"></a>                                   <span class="at">color =</span> <span class="st">"#0F0F0F"</span>),</span>
+<span id="cb4-27"><a href="#cb4-27" aria-hidden="true" tabindex="-1"></a>       <span class="at">axis.text.x =</span> <span class="fu">element_text</span>(<span class="at">size =</span> <span class="dv">30</span>, <span class="co"># set size and color of x-axis ticks text</span></span>
+<span id="cb4-28"><a href="#cb4-28" aria-hidden="true" tabindex="-1"></a>                                   <span class="at">color =</span> <span class="st">"#39240A"</span>),</span>
+<span id="cb4-29"><a href="#cb4-29" aria-hidden="true" tabindex="-1"></a>       <span class="at">axis.text.y =</span> <span class="fu">element_text</span>(<span class="at">size =</span> <span class="dv">35</span>, <span class="co"># set size and color of y-axis ticks text</span></span>
+<span id="cb4-30"><a href="#cb4-30" aria-hidden="true" tabindex="-1"></a>                                   <span class="at">color =</span> <span class="st">"#39240A"</span>),</span>
+<span id="cb4-31"><a href="#cb4-31" aria-hidden="true" tabindex="-1"></a>       <span class="at">axis.line =</span> <span class="fu">element_blank</span>() <span class="co"># remove axis lines</span></span>
+<span id="cb4-32"><a href="#cb4-32" aria-hidden="true" tabindex="-1"></a>       )</span></code></pre></div><button title="Copy to Clipboard" class="code-copy-button"><i class="bi"></i></button></div>
 <div class="cell-output-display">
 <div>
 <figure class="figure">
